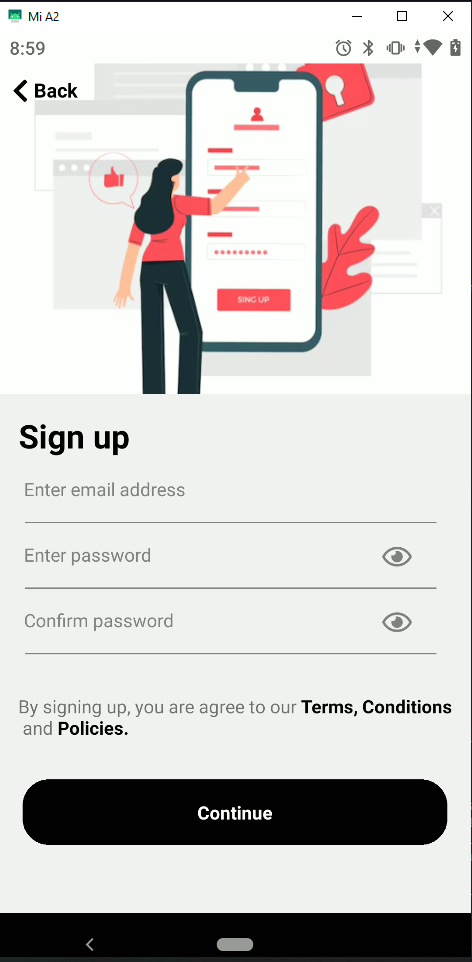
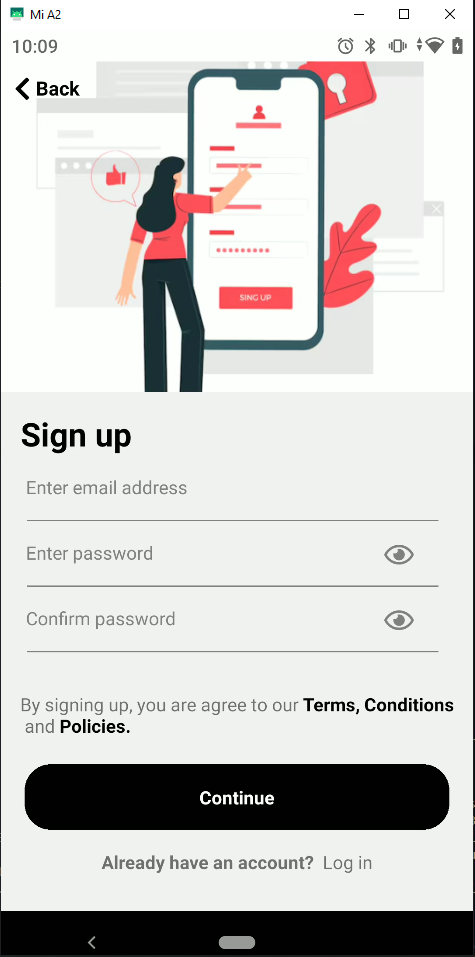
image added in readme

diff --git a/src/Screens/AuthScreens/SignUpScreen.js b/src/Screens/AuthScreens/SignUpScreen.js
@@ -38,8 +38,19 @@ const SignUpScreen = ({ navigation }) => {
             By signing up, you are agree to our <Text style={{color:'black', fontWeight:'bold'}}>Terms, Conditions{'\n'}</Text> and <Text style={{color:'black', fontWeight:'bold'}}>Policies.</Text>
           </Text>
         </View>
-        <View style={{marginTop: 30}}>
+        <View style={{marginTop: 20}}>
         <CustomButton label={'Continue'} onPress={()=>navigation.navigate('Login')}/>
+        </View>
+        <View style={{marginTop: 15,flexDirection:'row', justifyContent:'center'}}>
+          <Text style={{color:'black,', fontWeight:'bold'}}>Already have an account?</Text>
+          <TouchableOpacity 
+          activeOpacity={0.4}
+          onPress={()=>navigation.navigate('Login')}
+          >
+            <Text>
+              {'\t'}Log in 
+            </Text>
+          </TouchableOpacity>
         </View>
       </ScrollView>
     </View>
